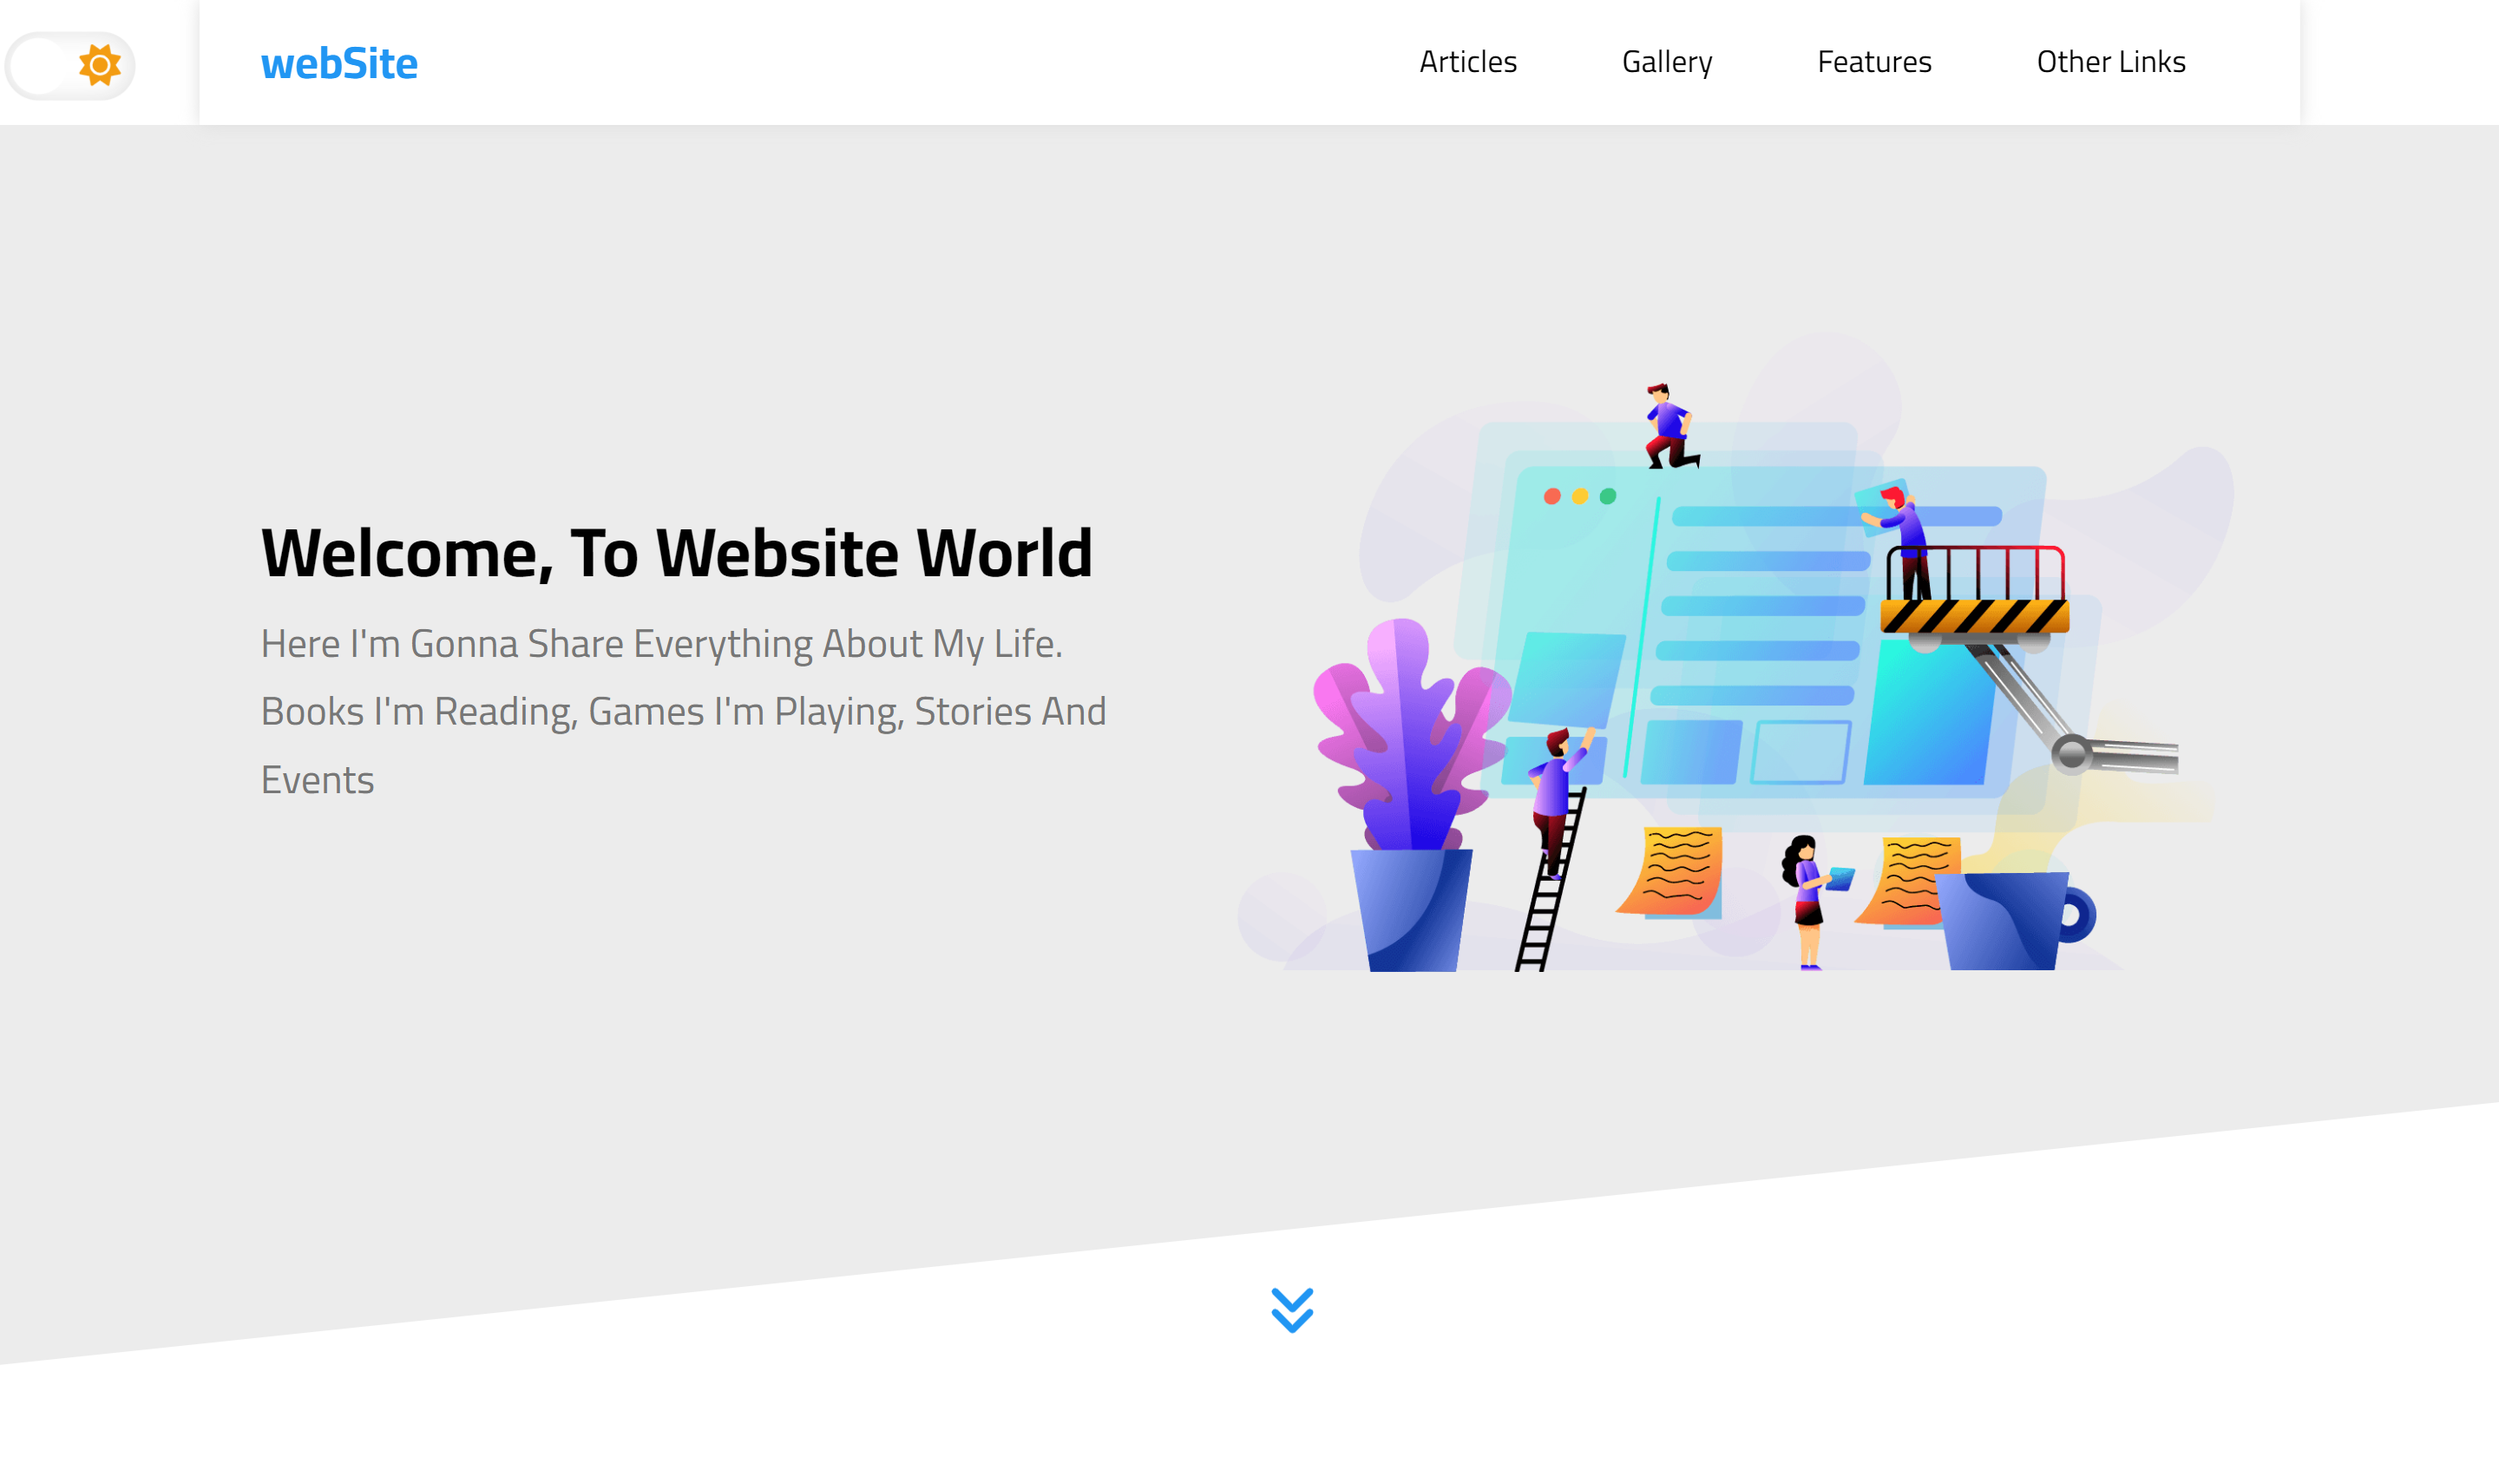
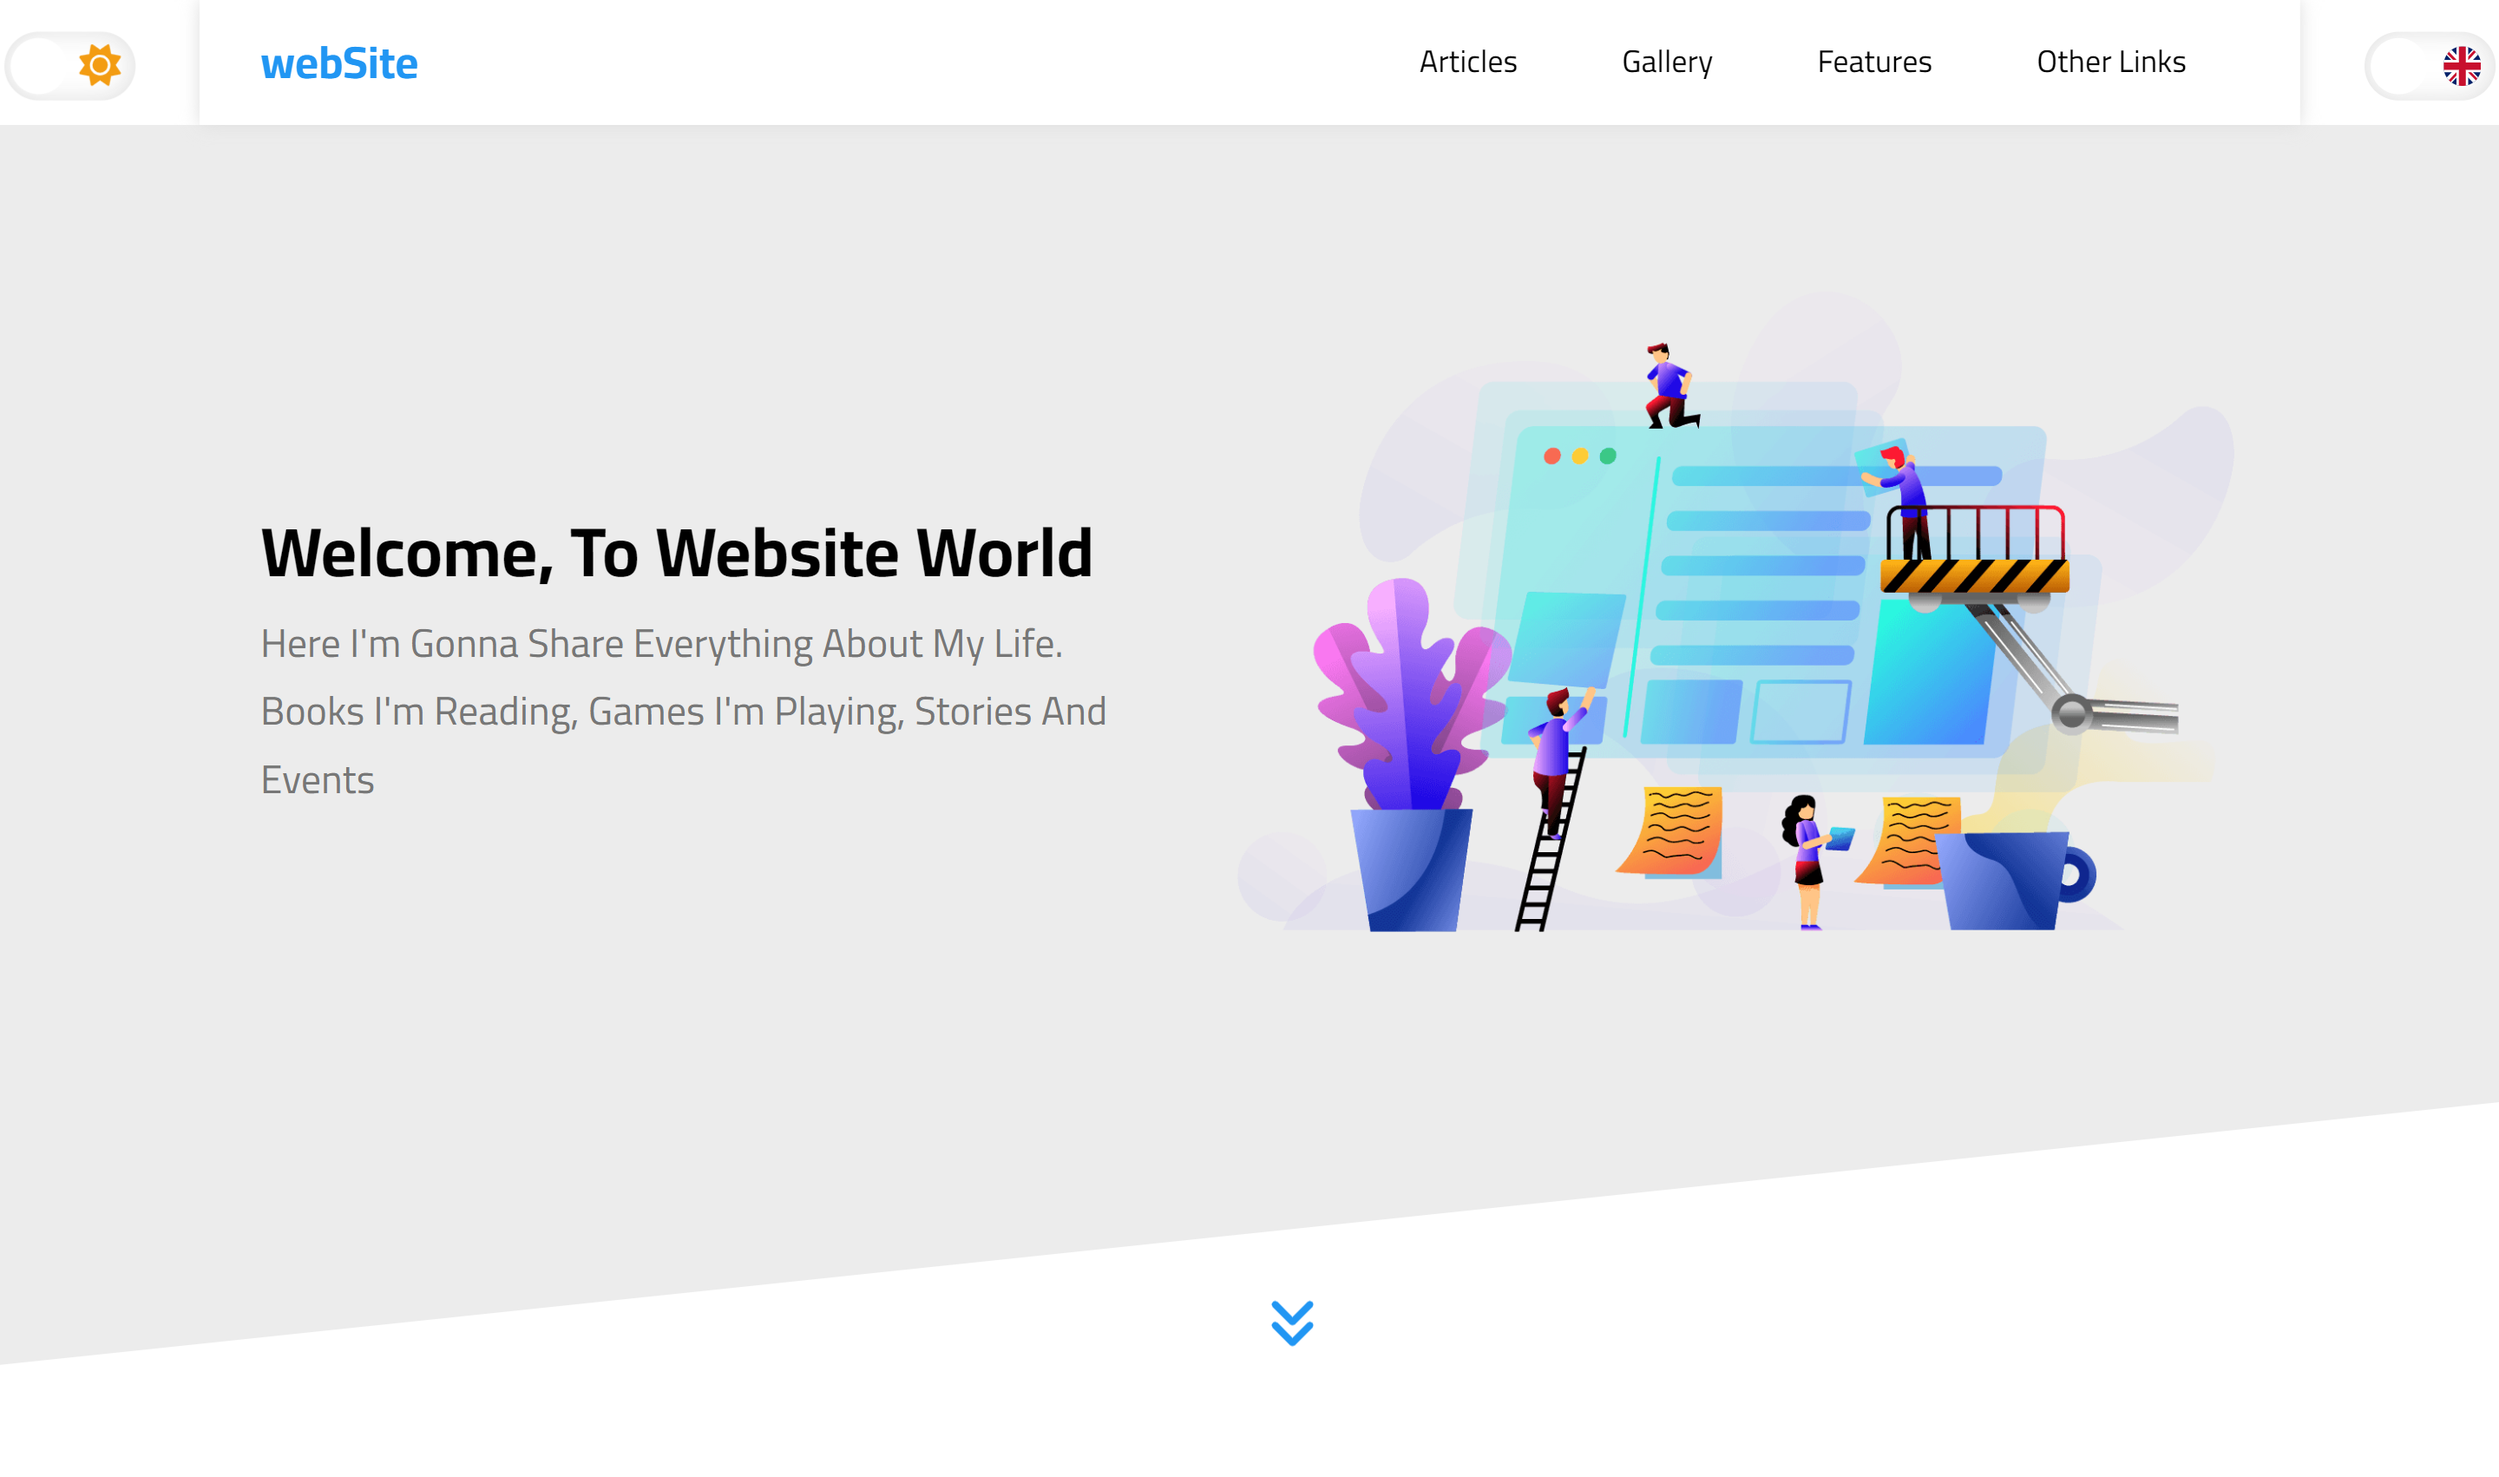
Edit the README file

Changed region(s): [[0.5, 0.218, 0.875, 0.6539], [0.9688, 0.0311, 1.0, 0.0623], [0.5, 0.8719, 0.5312, 0.9031]]

diff --git a/README.md b/README.md
@@ -29,12 +29,22 @@ This is a template made for purpose of training similar to [Elzero Web School Th
 ![](images/Desktop%20Light%20EN.png)
 ![](images/Desktop%20Dark%20EN.png)
 
+##### Arabic Language
+
+![](images/Desktop%20Light%20AR.png)
+![](images/Desktop%20Dark%20AR.png)
+
 #### Mobile
 
 ##### English Language
 
 ![](images/Mobile%20Light%20EN.png)
 ![](images/Mobile%20Dark%20EN.png)
+
+##### English Language
+
+![](images/Mobile%20Light%20AR.png)
+![](images/Mobile%20Dark%20AR.png)
 
 ### Links
 
